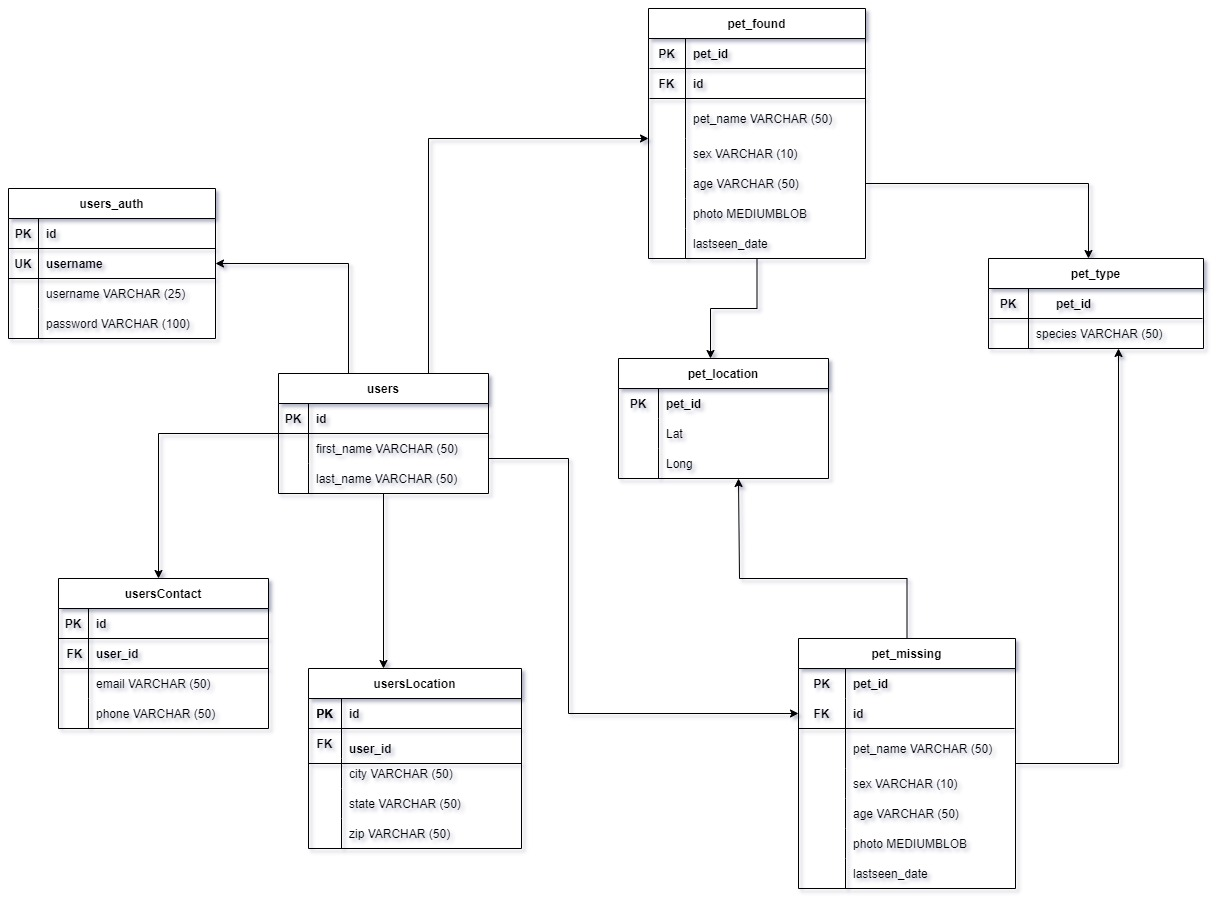
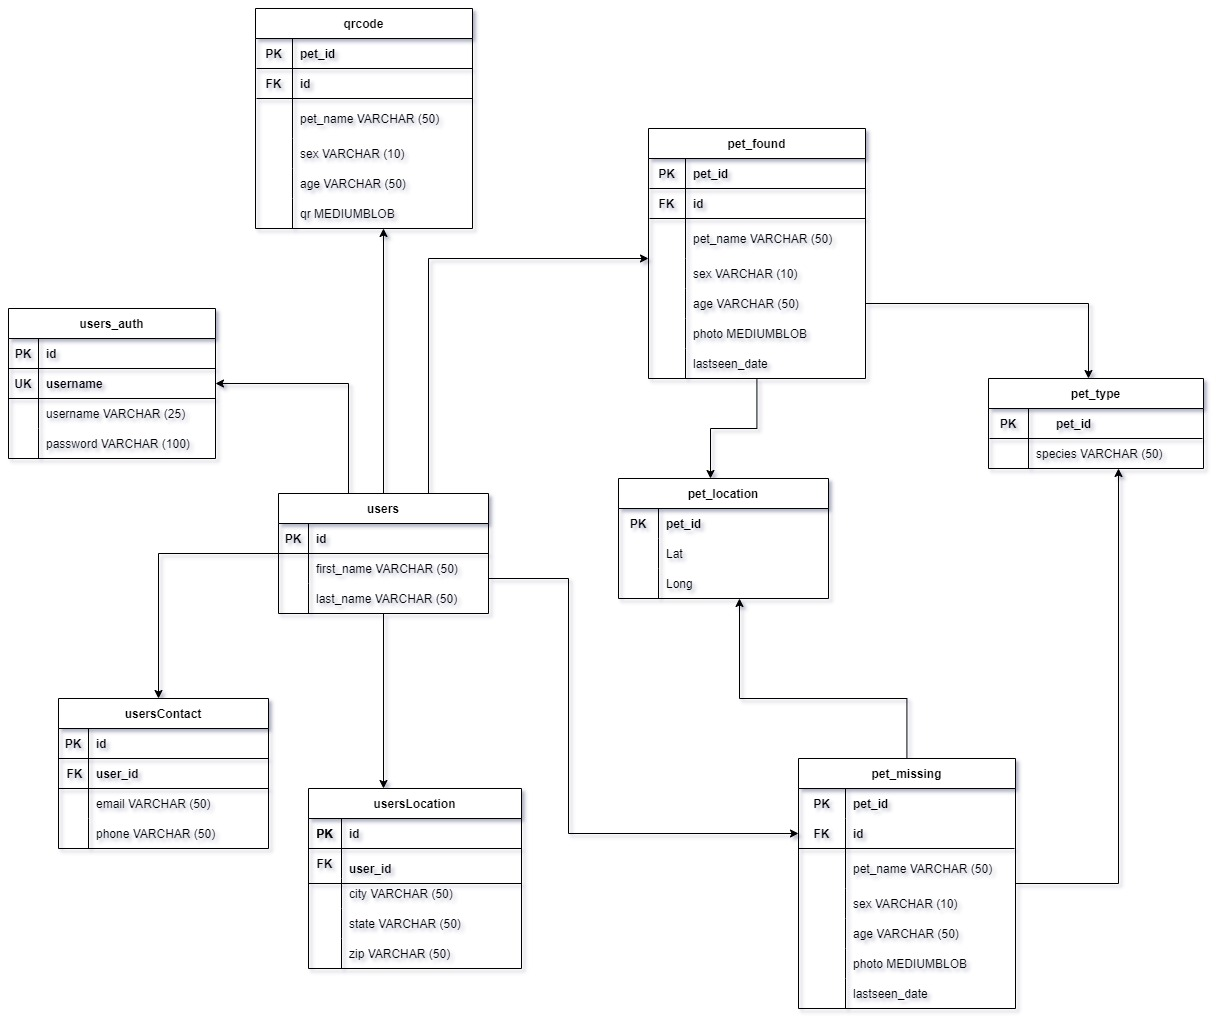
added qr

diff --git a/index.js b/index.js
@@ -4,6 +4,7 @@ const express = require("express");
 
 const usersRouter = require('./routers/users');
 // const petsRouter = require("./routers/pet");
+// const qrRouter = require("./routers/qr");
 const authRouter = require('./routers/auth');
 const { logger } = require('./middleware');
 
@@ -17,6 +18,7 @@ app.use(logger);
 app.use('/auth', authRouter);
 app.use('/users', usersRouter);
 // app.use('/pet', petsRouter);
+//app.use('/qr', qrRouter);
 
 app.get('/', (req, res) => {
     res.send('Welcome to our server!')

diff --git a/README.md b/README.md
@@ -29,18 +29,24 @@ The function is to let users post lost pets or found pets with a description, ph
 ### Pet Table
 ![pet_table](/READMEdocs/pet_table.jpg)
 
+### QR Table
+![qr_table](/READMEdocs/qr_table.jpg)
+
 ### SQL Statements for Table Creation
 - ~~[sql statements commands the mockup](/READMEdocs/sql_statements.txt)~~
+- [qrTable first draft](/sql/qrTable.sql)
 - [petTable first draft](/sql/petTable.sql)
 - !works [usersTable first draft](/sql/usersTable.sql)
 
 #### *routers*
 - ~~[routing for users and pet and log in the mockup](/READMEdocs/routers.txt)~~
+- [qr routers first draft](/routers/qr.js)
 - [pets routers first draft](/routers/pets.js)
 - !works [users routers first draft](/routers/users.js)
 - !works [auth routers first draft](/routers/auth.js)
 
 #### *controllers*
+- [qr controllers first draft](/controllers/qr.js)
 - [pets controllers first draft](/controllers/pets.js)
 - !works [users controllers first draft](/controllers/users.js)
 - !works [auth controllers first draft](/controllers/auth.js)
